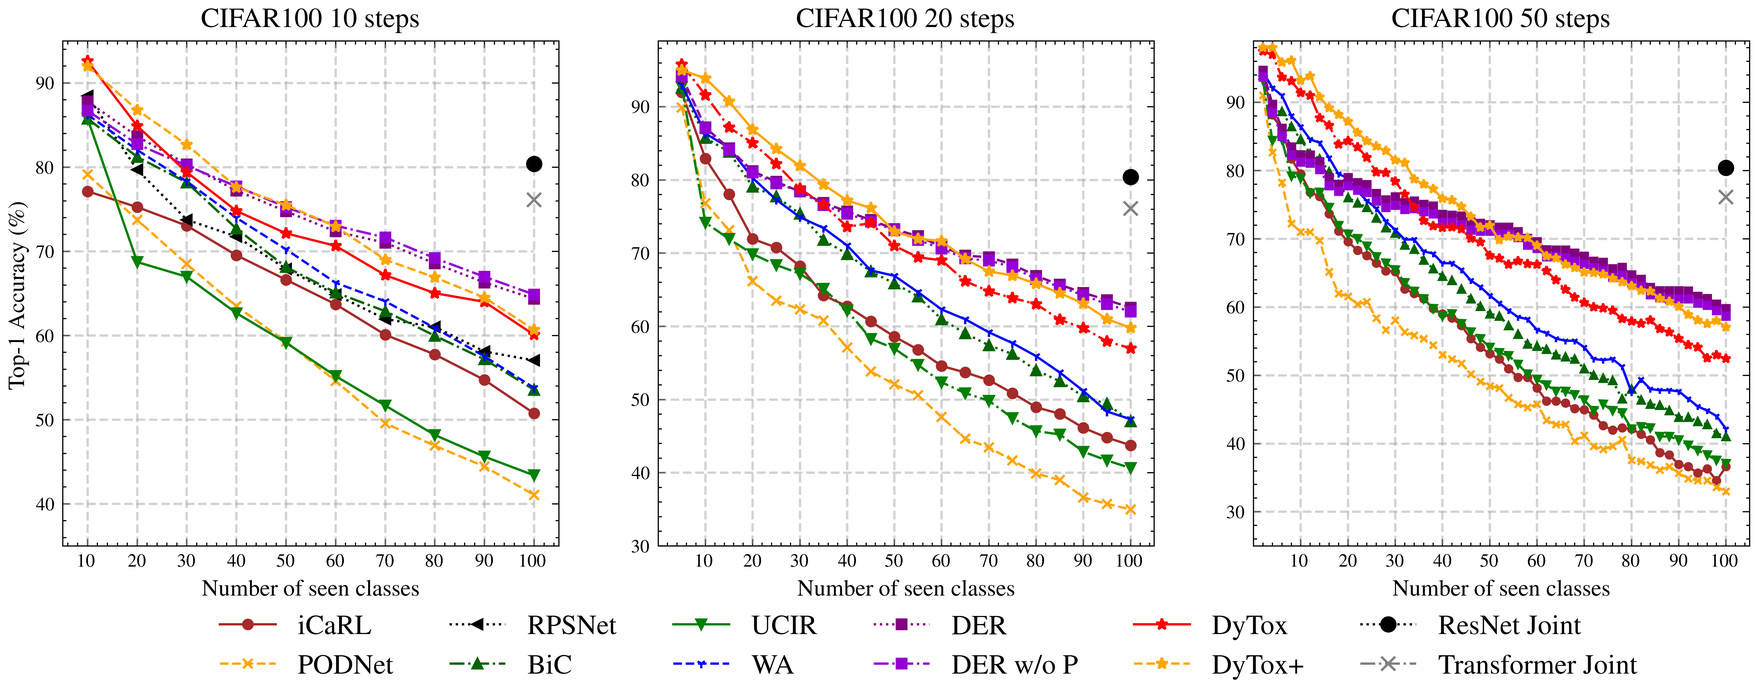
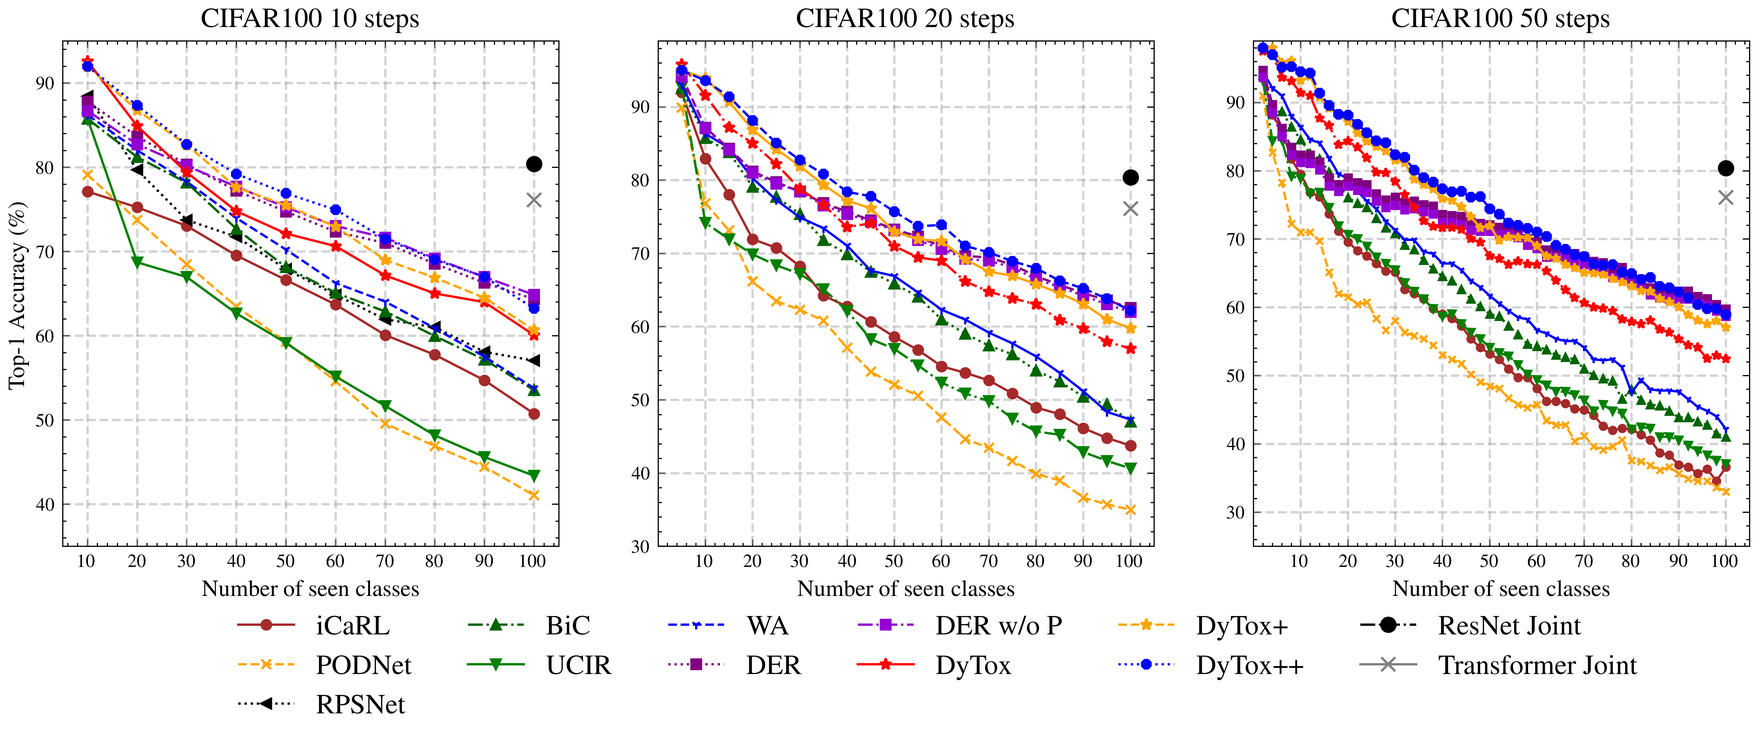
Started conc.

diff --git a/content/04_dynamic.tex b/content/04_dynamic.tex
@@ -2,21 +2,21 @@
 \label{chapter:dynamic}
 
 \begin{chapabstract}
-    Deep network architectures struggle to continually learn new tasks without forgetting the
-    previous tasks. A recent trend indicates that dynamic architectures based on an expansion of the
-    parameters can reduce catastrophic forgetting efficiently in continual learning. However,
+    Continual models aim to learn an ever-growing number of tasks. Dynamic architectures expand
+    their parameters to tackle this increasing complexity. However,
     existing approaches often require a task identifier at test-time, need complex tuning to balance
     the growing number of parameters, and barely share any information across tasks. As a result,
     they struggle to scale to a large number of tasks without significant overhead.\\
-    In this paper, we propose a transformer architecture based on a dedicated encoder/decoder
+    In this chapter, we propose a transformer architecture based on a dedicated encoder/decoder
     framework. Critically, the encoder and decoder are shared among all tasks. Through a dynamic
     expansion of special tokens, we specialize each forward of our decoder network on a task
     distribution. Our strategy scales to a large number of tasks while having negligible memory and
-    time overheads due to strict control of the expansion of the parameters. Moreover, this
-    efficient strategy doesn't need any hyperparameter tuning to control the network's expansion.
-    Our model reaches excellent results on CIFAR100 and state-of-the-art performances on the
-    large-scale ImageNet100 and ImageNet1000 while having fewer parameters than concurrent dynamic
-    frameworks.
+    time overheads due to strict control of the expansion of the parameters. Moreover, as a result,
+    this efficient strategy doesn't need any hyperparameter tuning to control the network's
+    expansion.\\
+    We evaluate our model on multiple datasets and show the interest of our parameter expansion strategy,
+    striking the right balance between performance and overhead. We also extensively ablate our
+    model to highlight each component contribution.
 
     \begin{itemize}
         \item \fullcite{douillard2021dytox}
@@ -35,17 +35,13 @@
 \label{sec:dytox_intro}
 
 
-Recent works
-\citep{yoon2018dynamically_expandable_networks,li2019learning_to_grow,hung2019cpg,fernando2017path_net,golkar2019neural_pruning,serra2018hat}
-dynamically expand the network architectures
-\citep{yoon2018dynamically_expandable_networks,li2019learning_to_grow} or re-arrange their internal
-structures \citep{fernando2017path_net,serra2018hat,hung2019cpg,golkar2019neural_pruning}.
-Unfortunately at test-time, they require to know the task to which the test sample belongs --- in
-order to know which parameters should be used. More recently, DER \citep{yan2021der} and Simple-DER
-\citep{li2021preserve} discarded the need for this task identifier by learning a single classifier on
-the concatenation of all produced embeddings by different subsets of parameters. Yet, these
-strategies induce dramatic memory overhead when tackling a large number of tasks, and thus need
-complex pruning as post-processing.
+Recent works expand the network architectures or re-arrange their internal structures using dynamic
+strategies (see \autoref{sec:related_structural}). Unfortunately at test-time, they require to know
+the task to which the test sample belongs --- in order to know which parameters should be used. More
+recently, DER \citep{yan2021der} and Simple-DER \citep{li2021preserve} discarded the need for this
+task identifier by learning a single classifier on the concatenation of all produced embeddings by
+different subsets of parameters. Yet, these strategies induce dramatic memory overhead when tackling
+a large number of tasks, and thus need complex pruning as post-processing.
 
 To improve the ease of use of continual learning frameworks for real-world applications, we aim to
 design a dynamically expandable representation (almost) `for free' by having the three following
@@ -53,22 +49,22 @@ properties: \#1 \textbf{limited memory overhead} as the number of tasks grows, \
     time overhead} at test time and \#3 \textbf{no setting-specific hyperparameters} for improved
 robustness when faced to an unknown (potentially large) number of tasks.
 
-To this end, we leverage the computer vision transformer ViT \citep{dosovitskiy2020vit}. Transformers
-\citep{vaswani2017transformer} offer a very interesting framework to satisfy the previously
-mentioned constraints. Indeed, we build upon this architecture to design a \textbf{encoder/decoder
-    strategy}: the encoder layers are shared among all members of our dynamic network; the unique
-decoder layer is also shared but its forward pass is specialized by a \textbf{task-specific learned
-    token} to produce task-specific embeddings. Thus, the memory growth of the dynamic network is
-extremely limited: only a 384d vector per task, validating property \#1. Moreover, this requires no
-hyperparameter tuning (property \#3). Finally, the decoder is explicitly designed to be
-computationally lightweight (satisfying property \#2). We nicknamed our framework, DyTox, for
-\textbf{DYnamic TOken eXpansion}. To the best of our knowledge, we are the first to apply the
-transformer architecture to continual computer vision.
+To this end, we leverage the computer vision transformers (refer to \autoref{sec:related_cv}).
+Transformers \citep{vaswani2017transformer} offer a very interesting framework to satisfy the
+previously mentioned constraints. Indeed, we build upon this architecture to design a
+\textbf{encoder/decoder strategy}: the encoder layers are shared among all members of our dynamic
+network; the unique decoder layer is also shared, but its forward pass is specialized by a
+\textbf{task-specific learned token} to produce task-specific embeddings. Thus, the memory growth of
+the dynamic network is extremely limited: only a 384d vector per task, validating property \#1.
+Moreover, this requires no hyperparameter tuning (property \#3). Finally, the decoder is explicitly
+designed to be computationally lightweight (satisfying property \#2). We nicknamed our framework,
+DyTox, for \textbf{DYnamic TOken eXpansion}. To the best of our knowledge, we are the first to apply
+the transformer architecture to continual computer vision.
 
-Our strategy is robust to different settings, and can easily scale to a large number of tasks. In
-particular, we validate the efficiency of our approach on CIFAR100, ImageNet100, and ImageNet1000
-(displayed on \autoref{fig:dytox_imagenet1000}) for multiple settings. We reach state-of-the-art results,
-with only a small overhead thanks to our efficient dynamic strategy.
+Our strategy is robust to different settings, and can easily scale to a large number of tasks with
+minimal time and memory overheads. In particular, we validate the efficiency of our approach on
+CIFAR100, ImageNet100, and ImageNet1000 for multiple settings. We also perform ablations confirming
+the soundness of our dynamic strategy.
 
 \section{Related work}
 \label{sec:dytox_related}
@@ -76,7 +72,7 @@ with only a small overhead thanks to our efficient dynamic strategy.
 In this chapter, we focus on continual dynamic networks
 (\autoref{sec:related_structural}) that expand their parameters coupled with rehearsal learning
 (\autoref{sec:related_rehearsal}). Moreover, to satisfy our desiderata listed previously, we based
-our framework on the recent Transformer architecture \autoref{sec:related_cv}.
+our framework on the recent Transformer architecture (see \autoref{sec:related_cv}).
 
 \paragraph{Continual dynamic networks}  Notably, most dynamic strategies require the sample's task
 identifier at test-time to select the right subset of parameters
@@ -144,20 +140,20 @@ sections.
 \label{sec:dytox_vit}
 
 The vision transformer \citep{dosovitskiy2020vit} has three main components: the patch tokenizer, the
-encoder made of Self-Attention Blocks, and the classifier. We described in the related work
-(\autoref{sec:related_cv}) the general architecture. We denote in this chapter a Self-Attention
-Block by its acronym: SAB, and we depict it in \autoref{fig:dytox_sab}.
+encoder made of Self-Attention Blocks (SABs), and the classifier. We described in the related work
+(\autoref{sec:related_cv}) the general architecture. A SAB is depicted in \autoref{fig:dytox_sab}.
 
 \begin{figure}
     \centering
-    \includegraphics[width=0\textwidth]{images/dytox/sab.pdf}
+    \includegraphics[width=1\textwidth]{images/dytox/sab.pdf}
     \caption{\textbf{The Self-Attention Block (SAB)} combines a Self-Attention (SA), two Layer
         Norms, and one MLP with a single hidden layer. As in a ResNet, two shortcuts are used with
-        element-wise addition.\vspace{-2em}}
+        element-wise addition.}
+    %\vspace{-2em}
     \label{fig:dytox_sab}
 \end{figure}
 
-Importantly, recall that in the original vision transformer (ViT \citep{dosovitskiy2020vit}), a learned
+Importantly, recall that in the original vision transformer ViT \citep{dosovitskiy2020vit}, a learned
 vector called the ``\textit{class token}'' is appended to the patch tokens after the tokenizer. This
 special class token, when processed after all the SABs, is given to a linear classifier with a
 softmax activation to predict the final probabilities. However, more recent works, as CaiT
@@ -299,7 +295,7 @@ time overhead is sub-linear. We quantitatively show this in \autoref{sec:dytox_e
     \end{algorithmic}
 \end{algorithm}
 
-\vspace{-1em}
+%\vspace{-1em}
 \paragraph{Context} The current transformer paradigm starting from BERT \citep{devlin2018bert} and
 continuing with ViT \citep{dosovitskiy2020vit} is based on a encoder+classifier structure.
 Differently, our dynamic framework strays is a resurgence of the encoder/decoder structure of the
@@ -307,12 +303,12 @@ original transformer \citep{vaswani2017transformer}: the encoder is shared (both
 execution) for all outputs. The decoder parameters are also shared, but its execution is
 task-specific with each task token, with each forward akin to a task-specific expert chosen from a
 mixture of experts \citep{masoudnia2014mixture}. Moreover, multi-tasks text-based transformers have
-natural language tokens as an indicator of a task \citep{raffel2019t5} (\textit{e.g.} "summarize the
+natural language tokens as an indicator of a task \citep{raffel2019t5} (\eg "summarize the
 following text"), in our context of vision we used our defined task tokens as indicators.
 
 \label{sec:dytox_training}
 
-\vspace{-0.5em}
+%\vspace{-0.5em}
 \paragraph{Losses} Our model is trained with three losses: (1) the classification loss
 $\mathcal{L_\text{clf}}$, a binary-cross entropy, (2) a knowledge distillation
 \citep{hinton2015knowledge_distillation} $\mathcal{L_\text{kd}}$ applied on the probabilities, and
@@ -332,7 +328,7 @@ task tokens. The total loss is:
 %
 with $\lambda$ a hyperparameter set to $0.1$ for \textbf{all} experiments. $\alpha$ correspond to
 the fraction of the number of old classes over the number of new classes
-$\frac{|C^{1:t-1}|}{|C^{1:t}|}$ as done by \citep{zhao2020weightalignement}. Therefore, $\alpha$ is
+$\frac{|C^{1:t-1}|}{|C^{1:t}|}$ as done by \citet{zhao2020weightalignement}. Therefore, $\alpha$ is
 automatically set; this removes the need to finely tune this hyperparameter.
 
 \subsection{Improved Continual Training Procedure}
@@ -353,17 +349,17 @@ this MixUp procedure, nicknamed as DyTox+, the forgetting is significantly reduc
 experiments.
 
 \paragraph{DyTox++} We nicknamed DyTox+ our model when combined with a novel continual procedure
-based on MixUp \cite{hingyi2018mixup}. We now refine DyTox+ into DyTox++ by adding a new component
-during the training: the Sharpness-Aware Minimizer (SAM) \cite{kwon2021asam}. Indeed, \textbf{aiming
+based on MixUp \citep{hingyi2018mixup}. We now refine DyTox+ into DyTox++ by adding a new component
+during the training: the Sharpness-Aware Minimizer (SAM) \citep{foret2020sam}. Indeed, \textbf{aiming
     for wider minima} is particularly important in continual learning
-\cite{kirkpatrick2017ewc,verwimp2021rehearsalrevealed}. This is because sharp task-specific minima
+\citep{kirkpatrick2017ewc,verwimp2021rehearsalrevealed}. This is because sharp task-specific minima
 lead to over-specialization to a particular task and consequently to a forgetting of all other
-tasks. Weights constraints as EWC \cite{kirkpatrick2017ewc} or second-order optimization
-\cite{lee2020kroneckercontinual} have similar motivations. SAM estimates the worst closest
+tasks. Weights constraints as EWC \citep{kirkpatrick2017ewc} or second-order optimization
+\citep{lee2020kroneckercontinual} have similar motivations. SAM estimates the worst closest
 parameters during a first forward/backward pass, and then optimizes the loss w.r.t. to them during a
 second forward/pass. In consequence, DyTox++ optimizes the loss not w.r.t. the current parameters
 but w.r.t. a region of possible parameters leading to wide local minima that span across multiple
-tasks. In practice, we used the Adaptive SAM (ASAM) \cite{kwon2021asam}, an extension of SAM that is
+tasks. In practice, we used the Adaptive SAM (ASAM) \citep{kwon2021asam}, an extension of SAM that is
 more robust to hyperparameters.
 
 
@@ -400,16 +396,15 @@ than usual "tiny" models \citep{dosovitskiy2020vit,touvron2021deit,touvron2021ca
 hyperparameters for CIFAR100 with 10 steps on a validation set made of 10\% of the training set, and
 then kept them fixed for all other settings, ImageNet included. The only difference between the two
 datasets is that ImageNet images are larger; thus the patch size is larger, and overall the base
-transformer has slightly more parameters on ImageNet than on CIFAR (11.00M vs 10.72M) because of a
+transformer has slightly more parameters on ImageNet than on CIFAR (11.00M \vs 10.72M) because of a
 bigger positional embedding. We use the attention with spatial prior (introduced by ConViT
-\citep{dascoli2021convit}) for all SABs which allows training transformers on a small dataset (like
+\citep{dascoli2021convit}) for all SABs, which allows training transformers on a small dataset (like
 CIFAR) without pretraining on large datasets or complex regularizations. Following previous works
 \citep{rebuffi2017icarl,yan2021der}, we use for all models (baselines included) 2,000 images of
-rehearsal memory for CIFAR100 and ImageNet100, and 20,000 images for ImageNet1000. The
-implementations of the continual scenarios are provided by Continuum
-\citep{douillardlesort2021continuum}. Our network implementation is based on the DeiT
-\citep{touvron2021deit} code base which itself uses extensively the timm library
-\citep{wightman2019timm}. The code is released
+rehearsal memory for CIFAR100 and ImageNet100, and 20,000 images for ImageNet1000. The Continuum
+library \citep{douillardlesort2021continuum} provides the implementations of the continual
+scenarios. Our network implementation is based on the DeiT \citep{touvron2021deit} code base, which
+itself extensively uses the timm library \citep{wightman2019timm}. The code is released
 publicly\footnote{\footnotesize{\url{https://github.com/arthurdouillard/dytox}.}}. The full
 implementation details are in the appendix (\autoref{sec:appendix_dytox}).
 
@@ -430,7 +425,7 @@ implementation details are in the appendix (\autoref{sec:appendix_dytox}).
     \end{subfigure}
     \caption{\textbf{Performance evolution on ImageNet-\{100, 1000\}.} The top-5 accuracy (\%) is
         reported after learning each task. Our model DyTox (in \textbf{\textcolor{red}{red}}) reaches
-        state-of-the-parterformance while using significantly less parameters than concurrent models.
+        state-of-the-art performance while using significantly fewer parameters than concurrent models.
         Note that at the initial step before the continual process begins, our model has performance
         comparable to other baselines: the performance gain is achieved by reducing catastrophic
         forgetting.}
@@ -501,19 +496,19 @@ DyTox is able to scale correctly while handling seamlessly the parameter growth 
 the weights across tasks. In contrast, DER had to propose a complex pruning method; unfortunately,
 this pruning required different hyperparameter values for different settings. Despite this, the
 pruning in DER$^\dagger$ is less efficient when classes diversity increase: DER$^\dagger$ doubles in
-size between ImageNet100 and ImageNet1000 (\citep{yan2021der} reports 7.67M \textit{vs.} 14.52M)
+size between ImageNet100 and ImageNet1000 (\citet{yan2021der} reports 7.67M \textit{vs.} 14.52M)
 while handling the same amount of tasks (10). Note that these parameter counts reported for
-DER$^\dagger$ in \citep{yan2021der} are in fact averages over all steps: the final parameters count
+DER$^\dagger$ in \citet{yan2021der} are in fact averages over all steps: the final parameters count
 (necessarily higher) was not available and thus is not reported in our tables. Simple-DER also
 applies pruning but without hyperparameter tuning; while simpler, the pruning is also less efficient
 and induces larger model (28.00M parameters).
 
-\vspace{-0.5em}
+%\vspace{-0.5em}
 \paragraph{CIFAR100} \autoref{tab:dytox_cifar100-b0} shows results for all approaches on CIFAR100. The
 more steps there are, the larger the forgetting is and thus the lower the performances are. Those
 settings are also displayed in \autoref{fig:dytox_increment_cifar} after each task. In every setting,
 DyTox is close to DER w/o P  for much fewer parameters (up to 52x less). Critically, DyTox is
-significantly above other baselines: \textit{e.g.} DyTox is up to +25\% in ``Last'' accuracy in the
+significantly above other baselines: \eg DyTox is up to +25\% in ``Last'' accuracy in the
 50 steps setup. Note that our improved continual training procedure, with DyTox+ and DyToX++,
 further increases the results in all settings. Notably DyTox++ increases the ``Àvg'' accuracy in the
 50 setup over DER by +3.4 \pp. Remark also that DER ``Avg'' accuracy degrades by 2.59 \pp between
@@ -528,22 +523,27 @@ growing classifier which is common for all continual models) is only of $+0.004\
 the challenging setting of CIFAR100 with 50 tasks, our memory overhead is almost null ($+0.2\%$).
 
 \label{sec:dytox_comp_over}
-\vspace{-1em}
+%\vspace{-1em}
 \paragraph{Computational overhead} The vast majority of the computation is done in the SABs, thus
 shared among all tasks. The dynamical component of our model is located at the ultimate TAB.
 Moreover, the Task-Attention, contrary to the Self-Attention, has a time complexity linear in terms
 of tokens and not quadratic reducing the time overhead to an acceptable sub-linear amount. Overall,
-for each new task, one forward pass takes $2.24\%$ more time than for the base transformer.
+for each new task, one forward pass is only $2.24\%$ slower than at the previous task.
+Furthermore, the procedure can be accelerated by doing a single forward pass through the TAB with
+a masked attention \citep{vaswani2017transformer}: the query is the concatenation of all task
+tokens, then we mask the attention logits corresponding to an interaction between task tokens. For
+an almost equivalent result (modulo numerical imprecision), a new task only increases the time spent
+in a forward pass by $1.09\%$.
 
-\vspace{-1em}
+%\vspace{-1em}
 \input{tables/dytox/plusplus}
 
 \paragraph{Training procedure introspection} Our DyTox+ and DyTox++ strategies really reduce
 catastrophic forgetting and does not just improve raw performances. This is shown in
 \autoref{tab:dytox_training_plusplus}, where we compare DyTox \vs DyTox+ \vs DyTox++ strategies on
 CIFAR100. In the joint setting, our model slightly benefits from both MixUp and ASAM: the gain is
-limited (+1.79 \textit{p.p.}). On the other hand, those two methods greatly improve the extreme
-continual setting of 50 steps (+6.42 \textit{p.p.}). This shows that the gain is not due to absolute
+limited (+1.79 \pp). On the other hand, those two methods greatly improve the extreme
+continual setting of 50 steps (+6.42 \pp). This shows that the gain is not due to absolute
 improvements of the model performance. Moreover, using the forgetting measure of
 \citet{chaudhry2018riemannien_walk}, we compare how much a model has forgotten relatively to its
 previous tasks. This metric is therefore agnostic to absolute performance improvements. DyTox had a
@@ -554,12 +554,15 @@ doubles the number of forward and backward passes. For this reason, we didn't ev
 the large ImageNet1000. However, future works could consider the promising Look-SAM
 \cite{liu2021looksam} to reduce the time overhead.
 
-\vspace{-1em}
+\input{tables/dytox/ablations}
+\FloatBarrier
+
+%\vspace{-1em}
 \label{sec:dytox_ablations}
 \paragraph{Model ablations} We ablate the importance of the different components of DyTox in
 \autoref{tab:dytox_ablation}. We add on the base transformer a naive knowledge distillation
 \citep{hinton2015knowledge_distillation} and a finetuning
-\citep{castro2018end_to_end_inc_learn,hou2019ucir,douillard2020podnet,yan2021der} applied after each
+\citep{castro2018end_to_end_inc_learn} applied after each
 task on a balanced set of new data and rehearsal data. Finally, our DyTox strategy exploits directly
 the very nature of transformers (separated task information from the pixels information) to tackle
 catastrophic forgetting with three components: (1) a task token expansion, (2) a divergence
@@ -567,18 +570,18 @@ classifier, and (3) independent classifiers. All three greatly improve over the 
 ($42.21\% \rightarrow 52.34\%$ in ``Last'') while having almost no memory overhead ($+0.2\%$). The
 divergence classifier improves the diversity between task tokens: we observed that the minimal
 Euclidean distance between them increases by 8\%. Moreover, we also remarked that having independent
-classifiers reduces the Chaudhry et al.'s forgetting \citep{chaudhry2018riemannien_walk} by more than
+classifiers reduces the forgetting defined by \citet{chaudhry2018riemannien_walk} by more than
 24\%.
 
-\input{tables/dytox/ablations}
 
 \section{Conclusion}
 
-In this paper, we propose DyTox, a new dynamic strategy for continual learning based on transformer
-architecture. In our model, self-attention layers are shared across all tasks, and we add
-task-specific tokens to achieve task-specialized embeddings through a new task-attention layer.
-This architecture allows us to dynamically process new tasks with very little memory overhead and
-does not require complex hyperparameter tuning. Our experiments show that our framework scales to
-large datasets like ImageNet1k with state-of-the-art performances. Moreover, when a large number of
-tasks is considered (\textit{i.e.} CIFAR100 50 steps) our number of parameters increases reasonably
-contrary to previous dynamic strategies.
+In this chapter, we covered our work on dynamic architectures. While in previous chapters, we aimed
+to constrain the visual features, we decided here to condition the features to specific tasks. With
+DyTox, a new dynamic strategy for continual learning based on transformer architecture, all tasks
+share a common encoding produced by self-attention layers. Then, task-specific tokens to achieve
+task-specialized embeddings through a new task-attention layer. This architecture allows us to
+dynamically process new tasks with very little memory overhead and does not require complex
+hyperparameter tuning. Our experiments show that our framework scales to large datasets and an
+important number of tasks efficiently while using significantly fewer parameters than concurrent
+dynamic strategies.

diff --git a/content/06_conclusion.tex b/content/06_conclusion.tex
@@ -7,8 +7,27 @@
 
 \ifthenelse{\boolean{skipConclusion}}{\endinput}{}
 
-\section{Summary}
+In this final chapter, we summarize the contributions of this thesis, and then
+explore the future directions of Continual Learning.
 
-\section{Further Works}
+\section{Contributions}
+
+During this thesis, we aim to learn an increasing number of classes with \ac{DL} architectures for
+\ac{CV} without forgetting. We design multiple methods to achieve this goal, with a particular
+interest on how the visual features of a continual model evolve through time. First, in \autoref{chapter:regularization}, we
+investigate how to constrain features while satisfying a rigidity-plasticity trade-off.
+Then, in \autoref{chapter:segmentation}, we explore continual approaches for
+semantic segmentation. Finally, in \autoref{chapter:dynamic}, we exploit the transformer
+architecture in a dynamic framework to condition features per task.
+
+\paragraph{Visual Features regularization} pass
+
+\paragraph{Continual Semantic Segmentation} pass
+
+\paragraph{Dynamic Strategy with Transformers} pass
+
+
+
+\section{Future Work}
 
 

diff --git a/content/03_segmentation.tex b/content/03_segmentation.tex
@@ -1064,6 +1064,5 @@ proposed to introduce rehearsal learning to \ac{CSS}, one based on partially-lab
 rehearsal, and the other --much more memory-efficient-- consisting in object rehearsal. The latter
 further refines our already effective model performance and enables real world applications of
 \ac{CSS} with a stringent memory constraint. We evaluated the proposed PLOPLong, with or without
-object rehearsal, on three datasets and over twelve different benchmarks. In each, we showed that
-our model performs significantly better than all existing baselines. Finally, we qualitatively
+object rehearsal, on three datasets and over twelve different benchmarks. Finally, we qualitatively
 validate our model through extensive ablations in order to better understand the performance gain.

diff --git a/main.tex b/main.tex
@@ -69,10 +69,10 @@
 % By setting this to true, you skip the compiling of some chapters
 \setboolean{skipIntro}{false}
 \setboolean{skipRelated}{false}
-\setboolean{skipRegul}{false}
-\setboolean{skipSegm}{false}
-\setboolean{skipDyna}{true}
-\setboolean{skipConclusion}{true}
+\setboolean{skipRegul}{true}
+\setboolean{skipSegm}{true}
+\setboolean{skipDyna}{false}
+\setboolean{skipConclusion}{false}
 \setboolean{skipAppendix}{false}
 
 %\mtcsetoffset{minitoc}{-0.80em}
